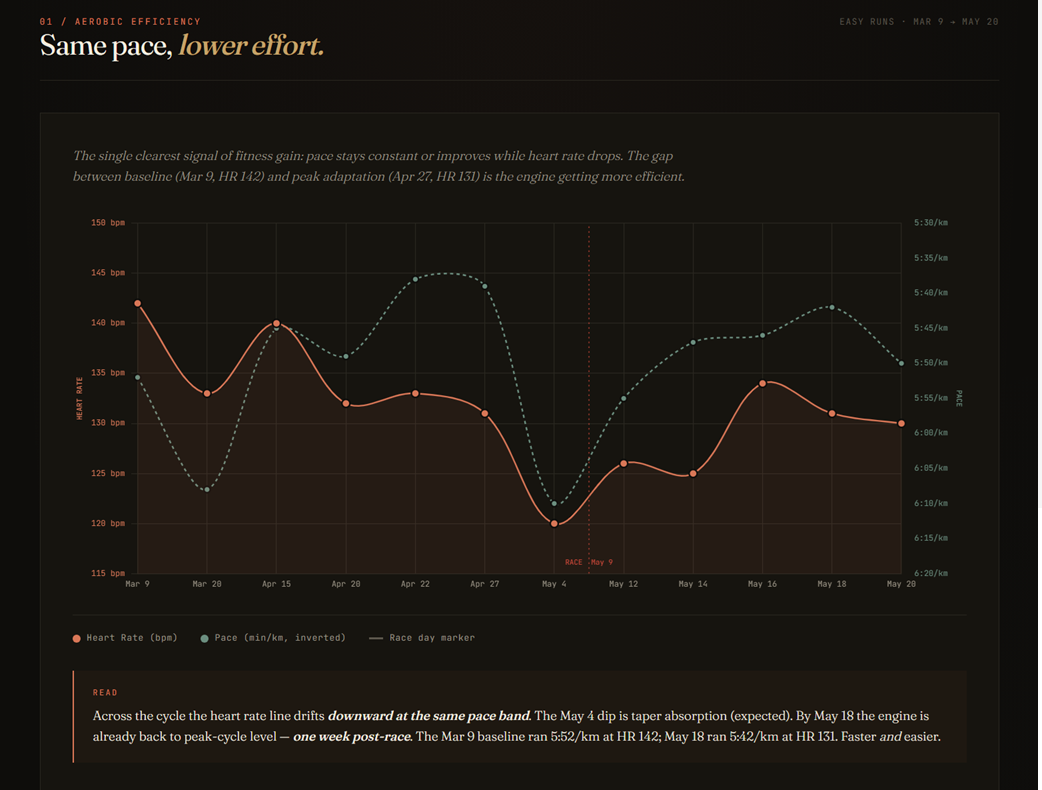
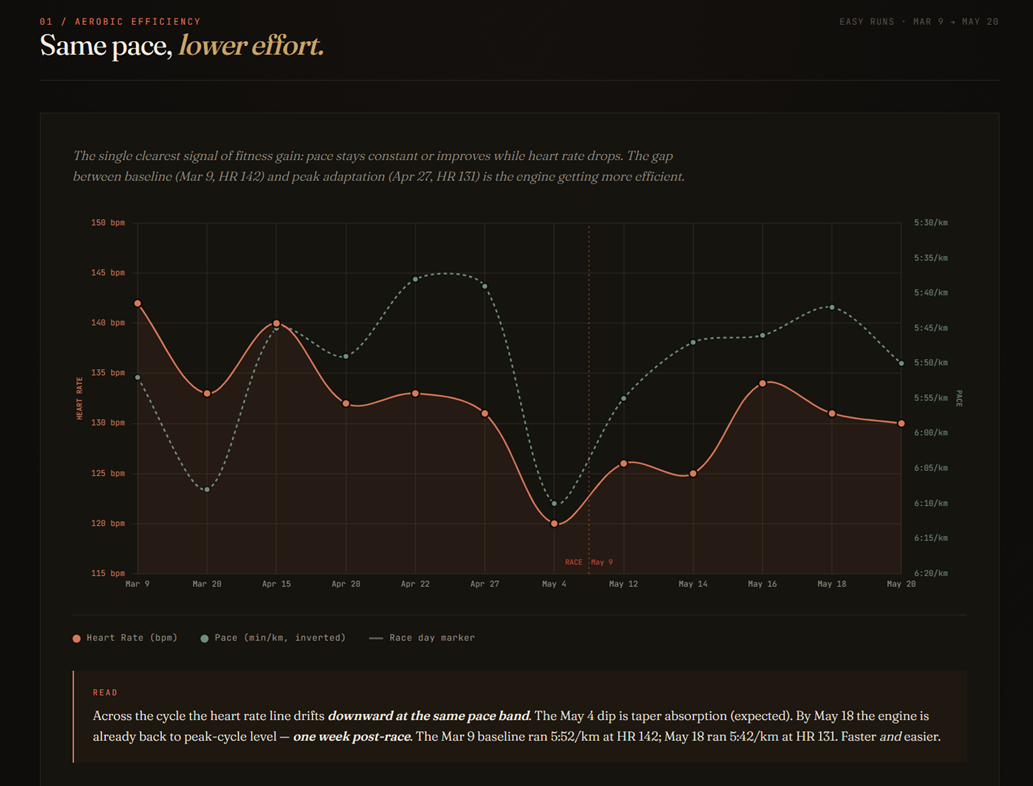
Dashboard image: clean reset with updated file

diff --git a/index.html b/index.html
@@ -763,9 +763,8 @@
                         <h3 class="font-display" style="font-size:1.0625rem; font-weight:700; color:white; margin:0; line-height:1.2;">AI Coaching Assistant — Touch Rugby &amp; Running</h3>
                     </div>
                 </div>
-                <div style="width:60%; margin:0 auto 1.125rem; border-radius:0.5rem; overflow:hidden; border:1px solid rgba(52,211,153,0.18);">
-                    <img src="ai-coaching-dashboard.png" alt="Coaching performance dashboard" style="display:block; width:107%; height:88px; object-fit:cover; object-position:left center; margin-right:-7%;">
-                </div>
+                <img src="ai-coaching-dashboard.png" alt="Coaching performance dashboard" style="display:block; width:60%; height:88px; object-fit:cover; object-position:center center; border-radius:0.5rem; margin:0 auto 1.125rem; border:1px solid rgba(52,211,153,0.18);">
+
                 <p style="font-size:0.8125rem; color:#94a3b8; line-height:1.75; margin:0 0 1rem;">
                     A coaching system that genuinely <strong style="color:#e2e8f0;">replaces a human coach</strong> — not just tracking data but reading it, giving structured feedback after every session, and adjusting the training plan dynamically based on recovery signals and performance trends.
                 </p>